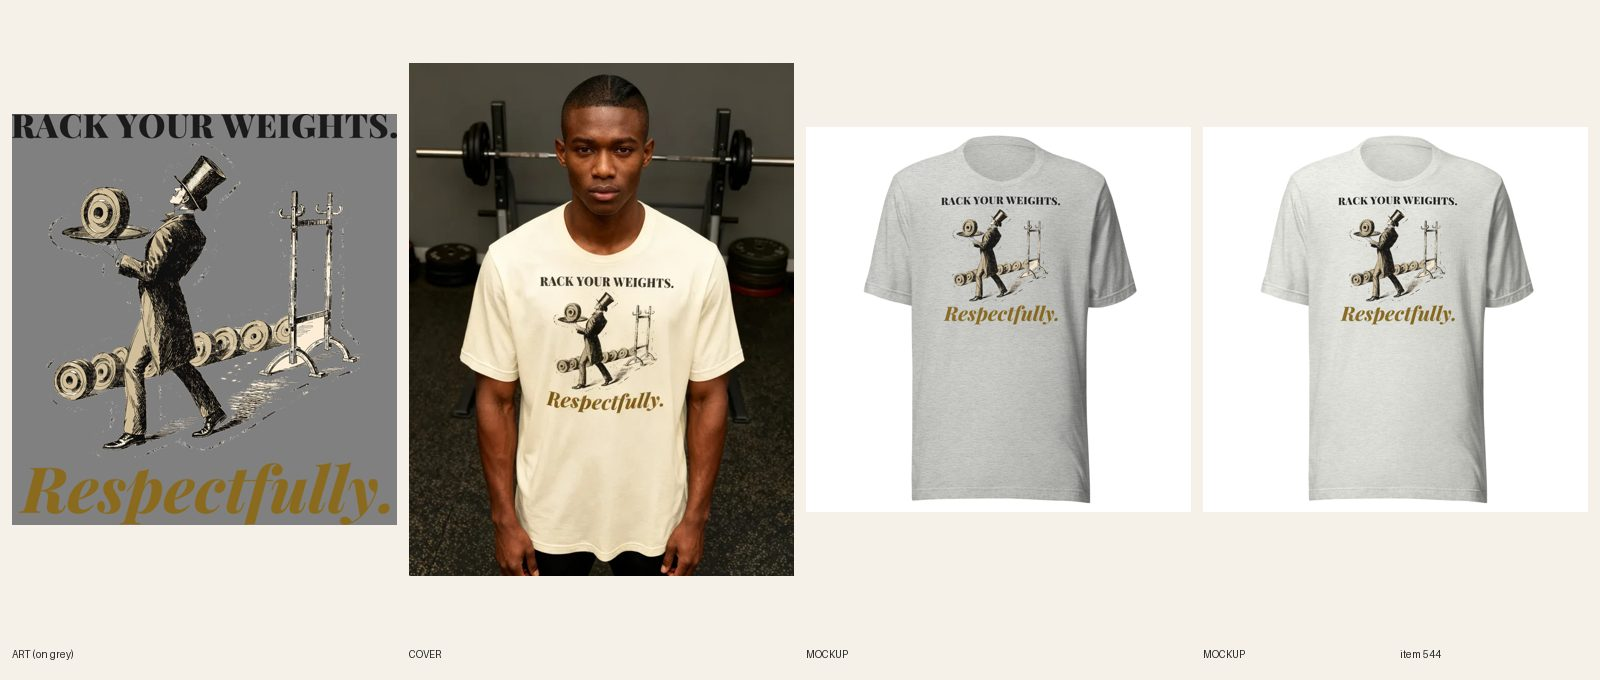
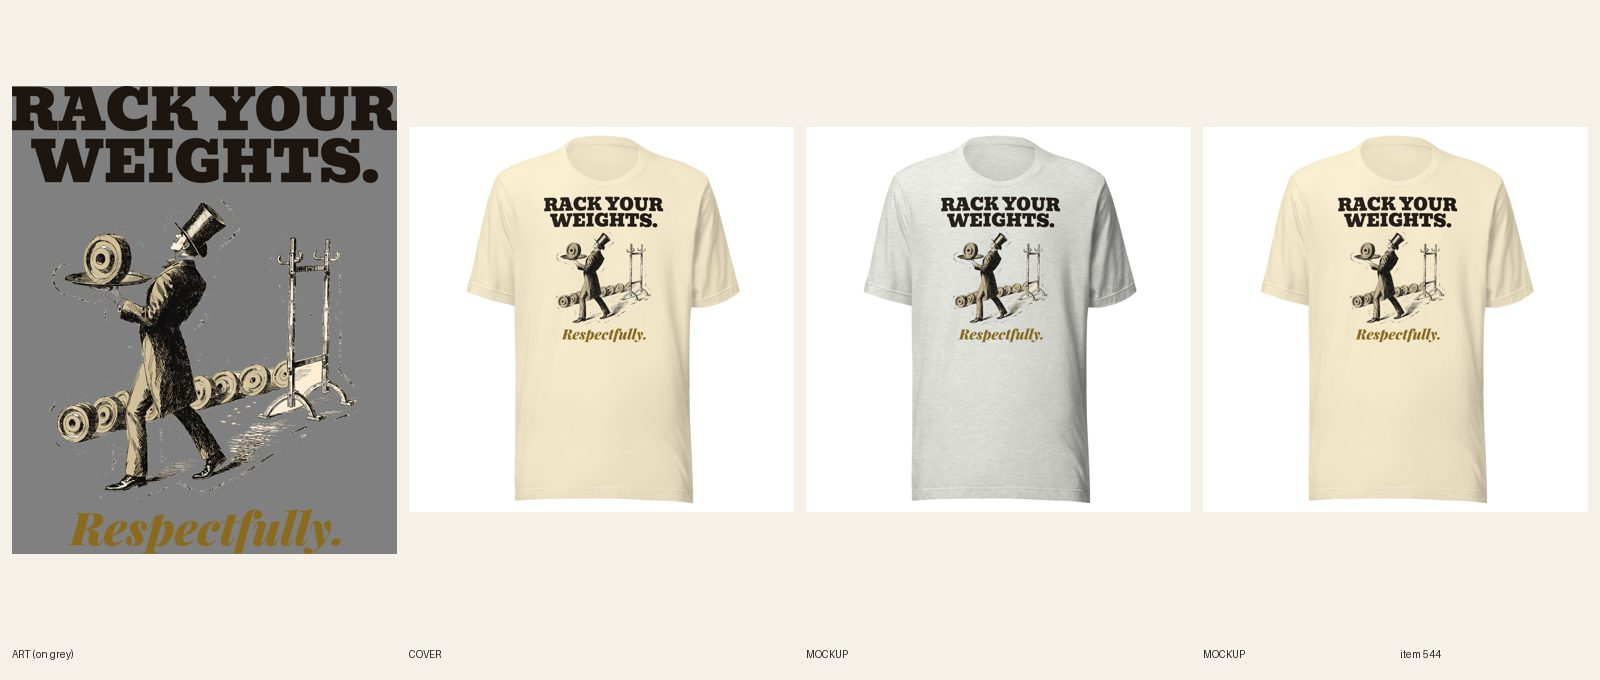
[B] review 544 Rack Your Weights tee (type redo)

Changed region(s): [[0.0, 0.0926, 0.5, 0.8647], [0.7812, 0.1853, 0.9688, 0.7412], [0.5312, 0.1853, 0.6875, 0.7412]]

diff --git a/designs/b544/build.py b/designs/b544/build.py
@@ -1,0 +1,35 @@
+#!/usr/bin/env python3
+"""#625 hoodie: type-only redo. Butler art from docs/print-files/625-rack-your-weights.png (rows 190-3080 are art).
+Headline RACK YOUR WEIGHTS. in Bevan at full art width, near-black; Respectfully. in Playfair Black Italic gold, heavy.
+usage: build.py <src.png> <out.png>"""
+import sys
+from PIL import Image, ImageDraw, ImageFont
+src, out = sys.argv[1:3]
+a = Image.open(src).convert('RGBA')
+art = a.crop((0, 300, a.width, 3040)); art = art.crop(art.getbbox())
+L = art.width
+R = float(sys.argv[3]) if len(sys.argv) > 3 else 0.72
+F = 'designs/fonts/'
+def line(text, fontfile, fill, width, axes=None):
+    size = 400
+    while True:
+        f = ImageFont.truetype(F + fontfile, size)
+        if axes: f.set_variation_by_axes(axes)
+        bb = f.getbbox(text)
+        if bb[2] - bb[0] <= width or size < 50: break
+        size -= 6
+    im = Image.new('RGBA', (bb[2] + 40, bb[3] + size), (0, 0, 0, 0))
+    ImageDraw.Draw(im).text((10, 10), text, font=f, fill=fill)
+    return im.crop(im.getbbox())
+h1 = line('RACK YOUR', 'Bevan-Regular.ttf', '#1c1510', L)
+h2 = line('WEIGHTS.', 'Bevan-Regular.ttf', '#1c1510', L)
+h = Image.new('RGBA', (L, h1.height + 50 + h2.height), (0, 0, 0, 0)); h.alpha_composite(h1, ((L-h1.width)//2, 0)); h.alpha_composite(h2, ((L-h2.width)//2, h1.height + 50))
+art = art.resize((int(L*R), int(art.height*R)), Image.LANCZOS)
+s = line('Respectfully.', 'PlayfairDisplay-Italic[wght].ttf', '#8a6a1f', int(L * 0.72), [900])
+g1, g2 = 90, 70
+c = Image.new('RGBA', (L, h.height + g1 + art.height + g2 + s.height), (0, 0, 0, 0))
+c.alpha_composite(h, ((L - h.width) // 2, 0))
+c.alpha_composite(art, ((L-art.width)//2, h.height + g1))
+c.alpha_composite(s, ((L - s.width) // 2, h.height + g1 + art.height + g2))
+c = c.crop(c.getbbox()); c.save(out, dpi=(300, 300))
+print(out, c.size, 'aspect %.2f' % (c.height / c.width), 'headline h', h.height, 'sub h', s.height)

diff --git a/docs/pipeline/544-gym-tee-rack-your-weights.md b/docs/pipeline/544-gym-tee-rack-your-weights.md
@@ -1,4 +1,4 @@
-status: BUILDING [B] 2026-10-19 21:05 UTC
+status: REVIEW
 lane: B
 type: new
 id: 544
@@ -32,3 +32,4 @@ kd: 16
 - 2026-10-18 03:40 UTC builder [B]: full build. Art: 1 Recraft call, kept (a Victorian butler in top hat, tails and white gloves carrying an iron weight plate on a silver tray toward an empty rack, loose plates behind him). The pale cream die-cut ground behind the figure (a sticker-like patch) was flood-filled to white and dropped before compose so the print is just the figure, plates, rack and floor hatching, no ground patch (R4.1). RACK YOUR WEIGHTS. (Playfair Display Black, near-black) above and Respectfully. (Playfair Display Italic, gold #8a6a1f, deeper than the brief's #c9a24a so it holds on light shirts) below via compose-print. One dark-ink file for 5 light colors (Natural, Soft Cream, Heather Dust, Ash, Athletic Heather) because the butler's black linework sinks into the brief's dark colors; no halo set. Print 11.3 x 12.1 in, FW 1650 TOP 75. DRAFT gid 15364546560304, category aa-1-13-8, 35 variants $24.99, compareAtPrice null, tags per brief, keyword gym tees 2,900/KD16 in line one and meta, FAQ 6 x 40-60 words incl. Dec 8. Printful file 1088657120 (v1 hosting) replaced by the cleaned print for mockups and sync, sync 35/35. Mockups for all 5 colors + back attached and linked (replaced in place after the ground clean-up). Cover: registry 884, 1 fal photo (Natural), every word reads, hands empty; alt starts "Man". Audit-local PASS, astro build OK. fal $0.10.
 - 2026-10-18 04:20 UTC director: LIVE. Butler + plate reads at phone size. Copy line one changed from 'The best gym tees say it politely' to 'Gym tees rarely say it this politely' (R8.3 no superlatives). ACTIVE, published. Audit PASS.
 - 2026-10-18 17:22 UTC director: QUALITY RESET grade B (type only), REDO. The product stays ACTIVE (same handle, URL, title keyword). Keep the line "RACK YOUR WEIGHTS. / Respectfully." and the art. 1. Type: line works (butler racking plates); headline thin book serif, plain bar on top. 2. Quality reset type bar (docs/backlog/quality-reset.md, 'The new bar'): headline at least 90% of the art width, heavy, colors pulled from the art; second line at least 45% of the headline's height, never a thin script on a dark or mid garment; use the lettering as a shape (arch, stacked lockup, words breaking into the art), not a plain bar above and a script line below; no font used on more than 1 in 6 of the last 30 designs. 3. New print file means a new cover per R6.10 and a fresh review sheet (R7.7). While quality-reset.md says PAUSED, only lane A builds, and only the samples step 2 names.
+- 2026-10-19 21:12 UTC builder [B]: REDO 544 type only (B grade), port of #625's approved print. designs/b544/build.py: same butler art, RACK YOUR / WEIGHTS. stacked in Bevan near-black at full art width, Respectfully. in Playfair Black Italic gold #8a6a1f (second line 46% of headline height). Printful file 1089881607 (2763x3358), FW 1650 TOP 75. Light file: dark ink on all 5 light colors (Natural, Soft Cream, Heather Dust, Ash, Athletic Heather), no cream fill, no light file needed (R5.3.8 n/a). Relinked 35/35 (back logo 1080398177 kept, R7.7). 5 fronts replaced in place via fileUpdate; read at 400 px on Ash, clear. Copy: print-description sentence updated to the stacked slab lettering; line one unchanged (no superlative). Cover: plain product shot (handle already in retired-covers.json). audit --handle PASS 0 warn; astro build OK. fal $0. Sheet docs/review/544.jpg.

diff --git a/docs/intake-log.md b/docs/intake-log.md
@@ -1,5 +1,6 @@
-RUNNING lane B since 2026-10-19 21:00 UTC
 RUNNING lane A since 2026-10-19 20:59 UTC
+2026-10-19 21:12 UTC — [B] Builder run: redid #544 Men's Gym Rack Your Weights tee (type only, port of #625: Bevan stacked headline + heavy gold italic, same art, FW 1650 TOP 75, file 1089881607, 35/35 relinked, 5 fronts replaced in place, copy updated, plain product shot). REVIEW. fal $0. 1 redo per run cap reached. Lock released.
+
 
 2026-10-19 21:26 UTC — [E] Builder run: redid #578 Unisex Pitbull Scary Dog, Afraid of the Vacuum tee (type only: Bowlby One cream SCARY DOG. + Anton mustard AFRAID OF THE VACUUM. at full art width, same art, FW 1600 TOP 75, file 1089860399, 42/42 resynced, 6 fronts replaced in place, copy updated, plain product shot). REVIEW. fal $0. 1 redo per run cap reached. Lock released.
 
